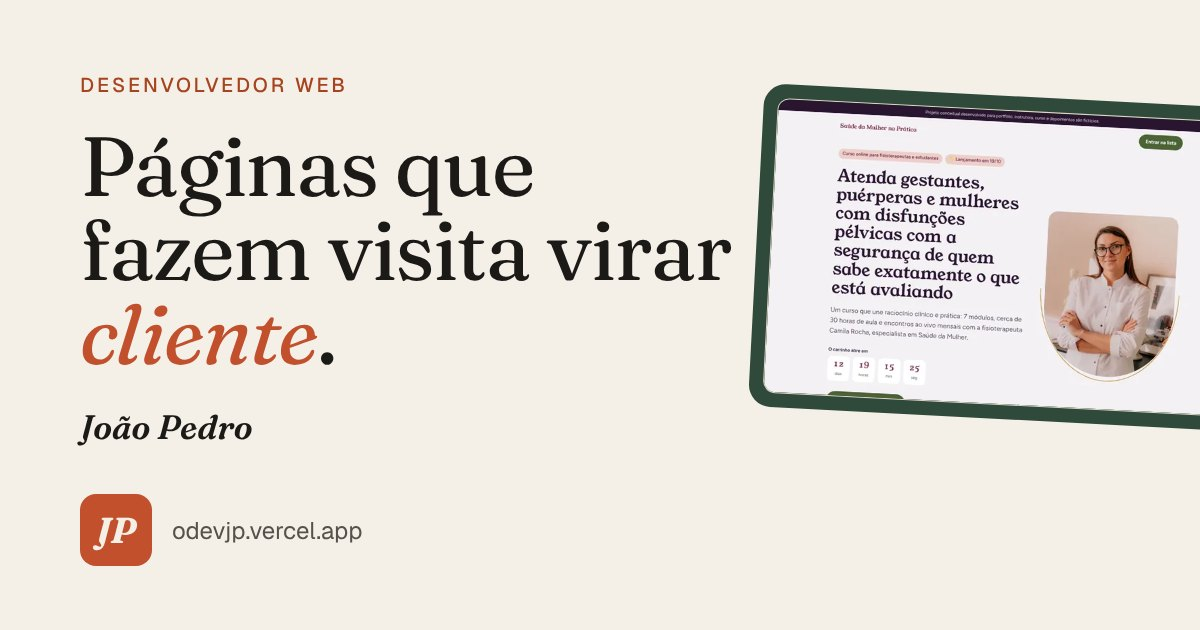
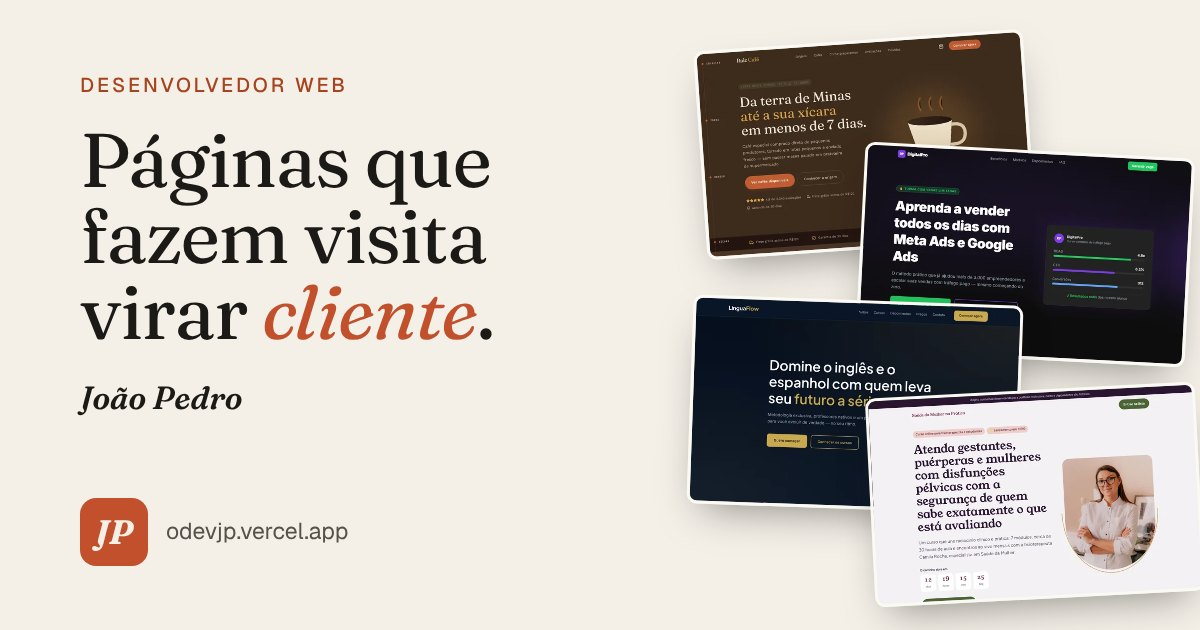
fix readme

diff --git a/src/components/About.jsx b/src/components/About.jsx
@@ -5,9 +5,12 @@ import Reveal from './Reveal';
 export default function About() {
   return (
     <section id="sobre" aria-labelledby="sobre-titulo" className="py-24 md:py-32">
-      <div className="mx-auto grid max-w-6xl gap-14 px-6 lg:grid-cols-[1.1fr_0.9fr] lg:gap-20">
-        <div>
-          <SectionTitle id="sobre-titulo" kicker="Sobre mim" title="Experiência de empresa, atenção de freelancer" />
+      <div className="mx-auto max-w-6xl px-6">
+        {/* O título fica acima das duas colunas, para o texto e a lista de
+            tecnologias começarem na mesma altura */}
+        <SectionTitle id="sobre-titulo" kicker="Sobre mim" title="Experiência de empresa, atenção de freelancer" />
+
+        <div className="grid items-start gap-14 lg:grid-cols-[1.1fr_0.9fr] lg:gap-20">
           <Reveal className="space-y-5 text-lg leading-relaxed text-suave">
             <p>
               Sou João Pedro, desenvolvedor web formado em Tecnologia da Informação pela UNIVESP. Passei mais de 3 anos
@@ -23,19 +26,19 @@ export default function About() {
               Hoje trabalho como freelancer, levando essa experiência para landing pages, sites e sistemas sob medida.
             </p>
           </Reveal>
-        </div>
 
-        <Reveal className="self-end">
-          <h3 className="mb-5 text-xs font-medium tracking-[0.14em] text-terracota-escuro uppercase">Tecnologias</h3>
-          <ul className="grid grid-cols-2 gap-3">
-            {stack.map(({ name, Icon }) => (
-              <li key={name} className="flex items-center gap-3 rounded-lg border border-linha bg-papel px-4 py-3 text-sm">
-                <Icon size={18} className="shrink-0 text-musgo" aria-hidden="true" focusable="false" />
-                {name}
-              </li>
-            ))}
-          </ul>
-        </Reveal>
+          <Reveal delay={0.08}>
+            <h3 className="mb-5 text-xs font-medium tracking-[0.14em] text-terracota-escuro uppercase">Tecnologias</h3>
+            <ul className="grid grid-cols-2 gap-3">
+              {stack.map(({ name, Icon }) => (
+                <li key={name} className="flex items-center gap-3 rounded-lg border border-linha bg-papel px-4 py-3 text-sm">
+                  <Icon size={18} className="shrink-0 text-musgo" aria-hidden="true" focusable="false" />
+                  {name}
+                </li>
+              ))}
+            </ul>
+          </Reveal>
+        </div>
       </div>
     </section>
   );

diff --git a/README.md b/README.md
@@ -4,7 +4,7 @@
 
 Site pessoal de desenvolvedor web freelancer: serviços, projetos, processo de trabalho e contato.
 
-![Prévia do portfólio](public/og-image.jpg)
+![Portfólio no desktop e no celular](docs/capa.jpg)
 
 ## Seções
 
